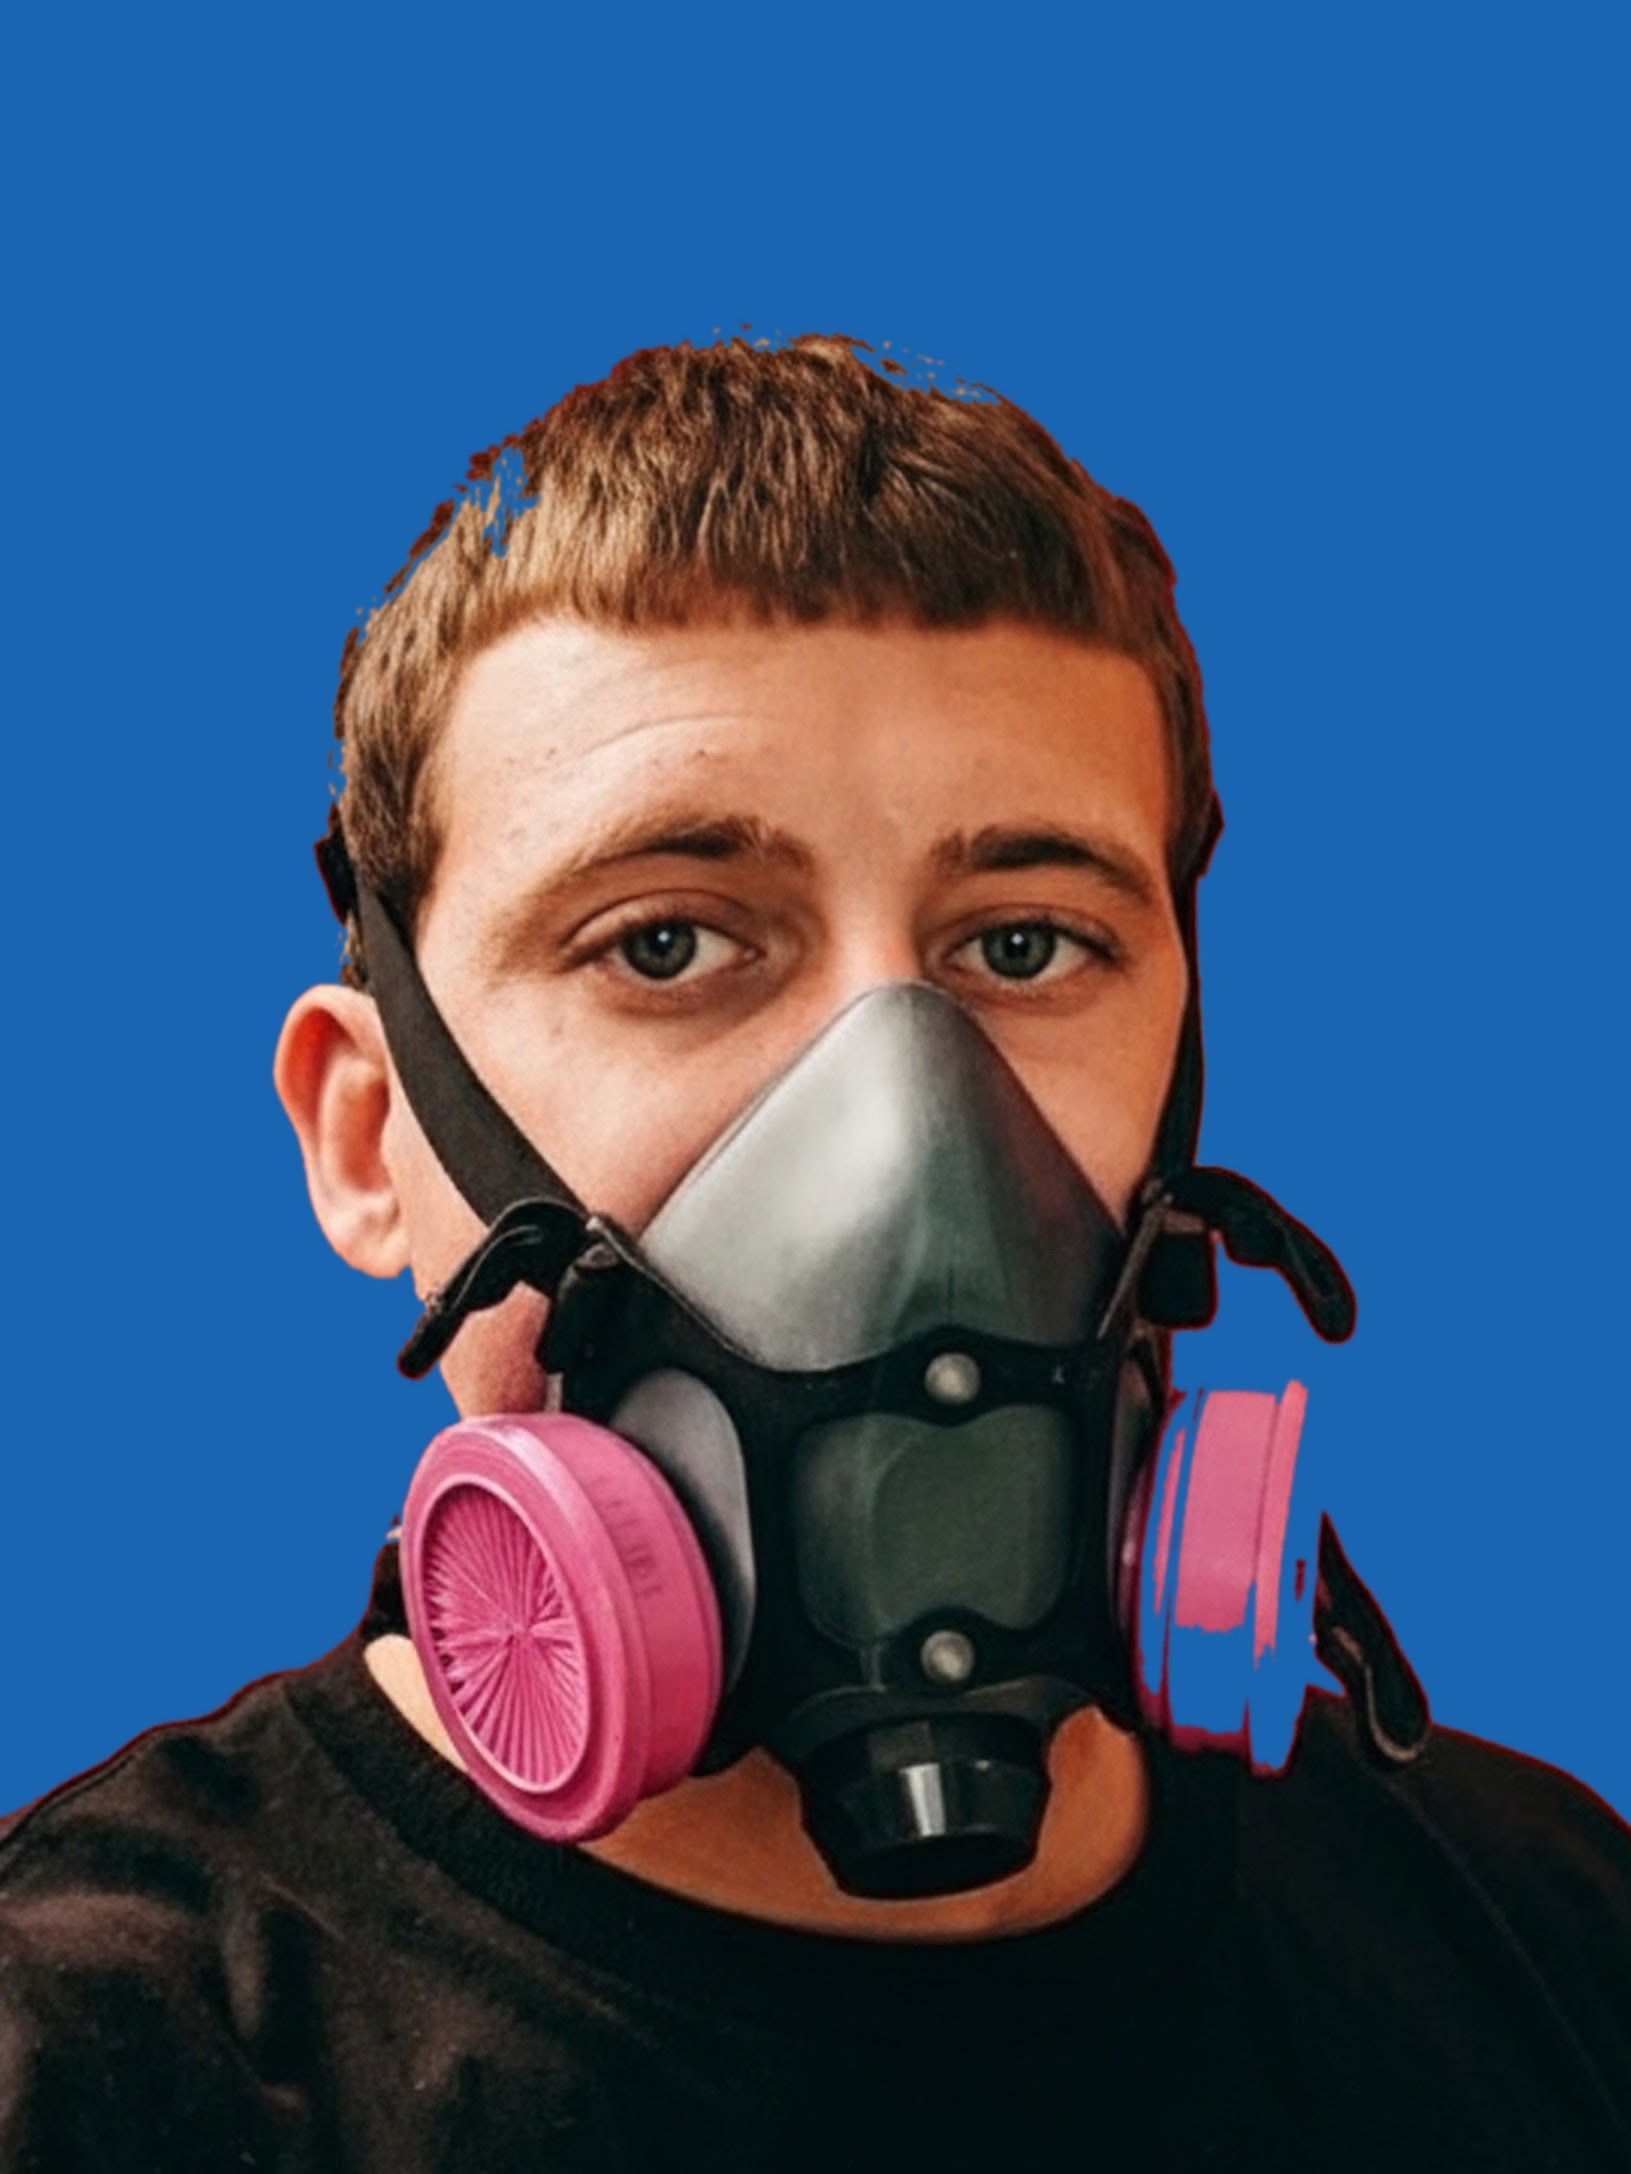
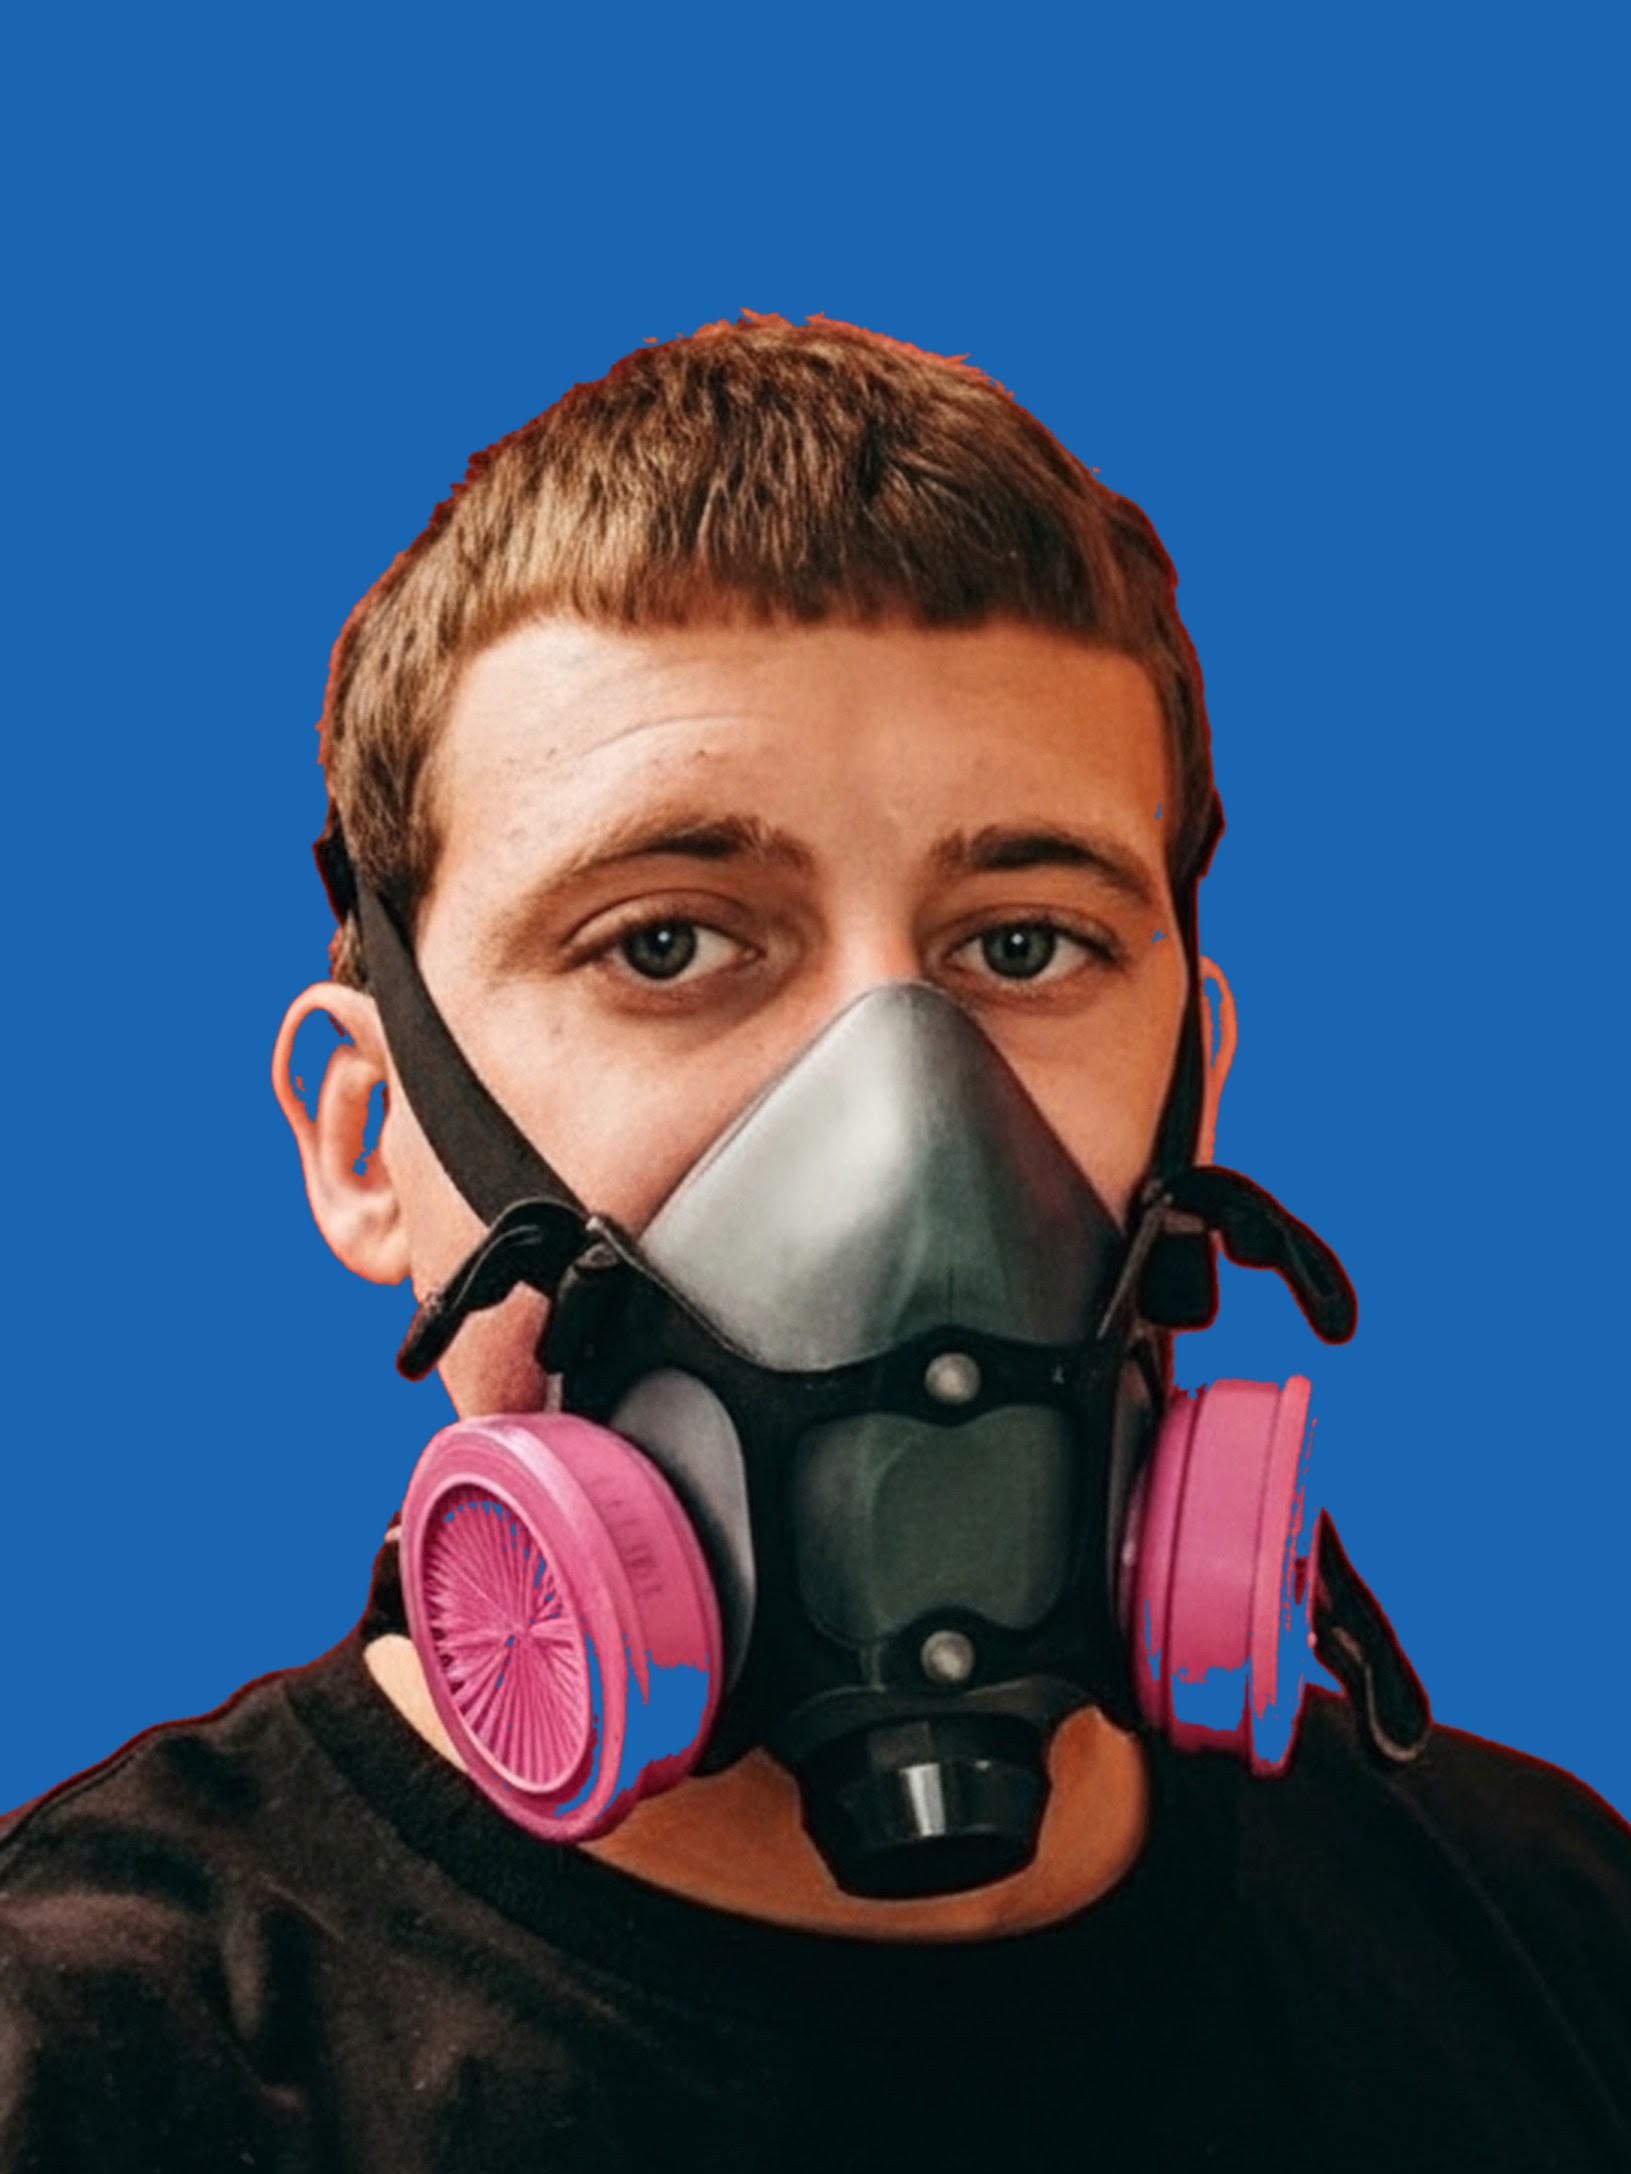
Finish blue intro portrait: clean red-to-blue background recolor, zoomed out to show full head and mask
Claude-Session: https://claude.ai/code/session_01Gk7LGma6Ww4tCg72T11uab

diff --git a/index.html b/index.html
@@ -277,7 +277,7 @@ ul { list-style: none; }
 /* ═══ INTRO / PERSON ═══ */
 .intro-grid { display: grid; grid-template-columns: 320px 1fr; gap: 3rem; align-items: center; }
 .intro-photo { width: 100%; aspect-ratio: 1; border-radius: 50%; background: #1965B1; box-shadow: var(--shadow); overflow: hidden; }
-.intro-photo img { width: 100%; height: 100%; object-fit: cover; object-position: 50% 30%; display: block; }
+.intro-photo img { width: 100%; height: 100%; object-fit: contain; object-position: center; display: block; }
 .intro .eyebrow { color: var(--red); }
 .intro h2 { font-size: 2rem; color: var(--ink); margin-bottom: 1rem; }
 
@@ -544,7 +544,7 @@ ul { list-style: none; }
   <!-- ═══ INTRO ═══ -->
   <section class="section intro" id="about">
     <div class="container intro-grid">
-      <div class="intro-photo"><img src="assets/photos/technician-portrait.jpg" alt="Peak Bio-Clean technician in a protective respirator" /></div>
+      <div class="intro-photo"><img src="assets/photos/technician-portrait-blue.jpg" alt="Peak Bio-Clean technician in a protective respirator" /></div>
       <div>
         <p class="eyebrow">A Passion to Help</p>
         <h2>Here for You During Life's Hardest Moments</h2>
